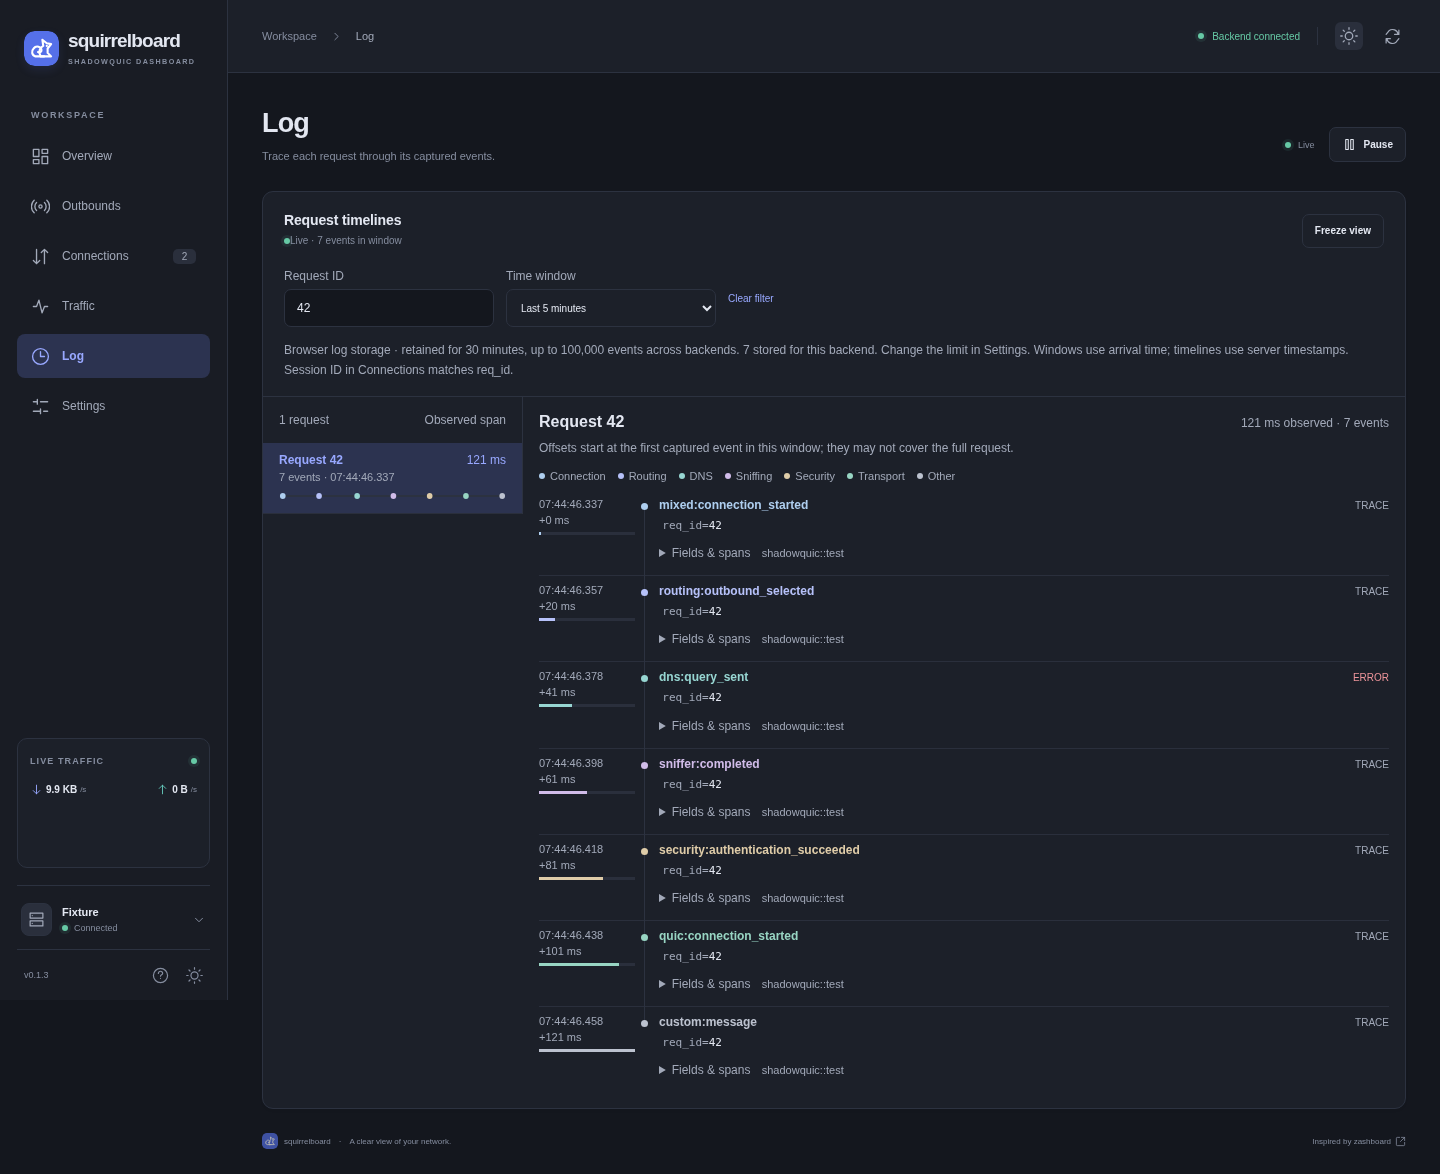
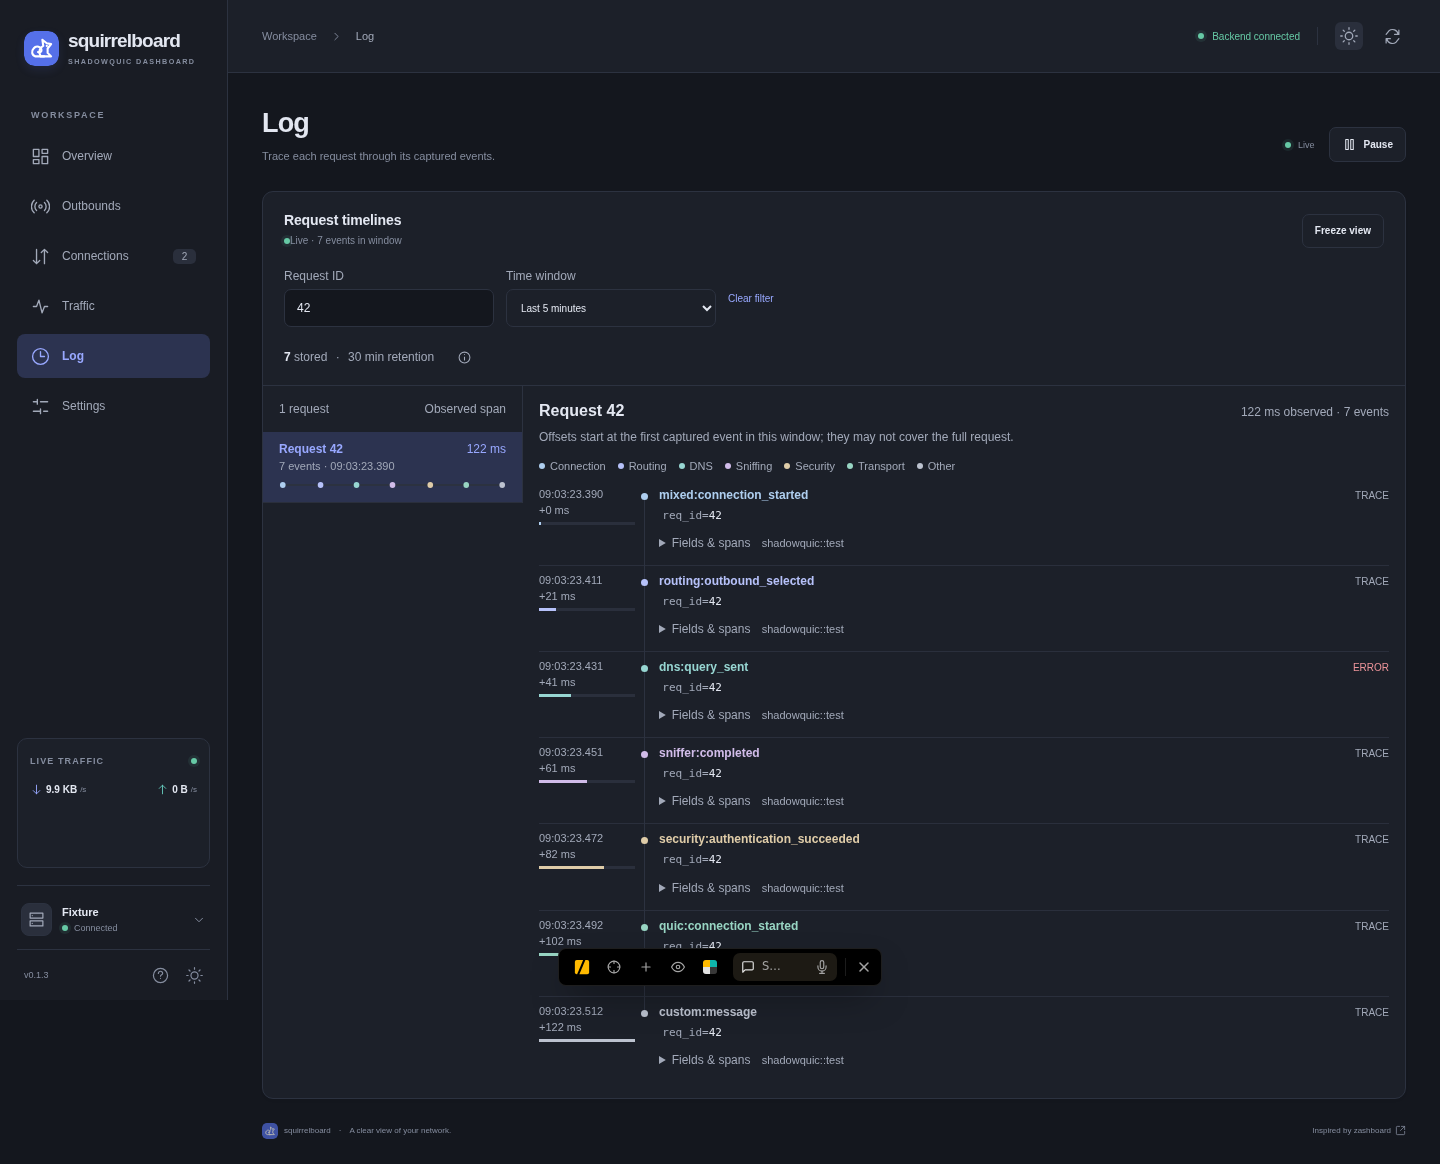
refactor: move log capture details into hover help

diff --git a/src/components/LogPanel.vue b/src/components/LogPanel.vue
@@ -14,6 +14,8 @@ const eventOffset = ref(0)
 const view = shallowRef(emptyLogView())
 const loading = ref(true)
 const queryError = ref('')
+const helpDismissed = ref(false)
+const hasCaptureIssues = computed(() => !!(props.dropped || props.gaps || props.evicted || props.invalid))
 let running = false
 let dirty = false
 let alive = true
@@ -79,11 +81,23 @@ function freeze() { frozen.value = frozen.value === null ? props.now : null }
       <button v-if="requestId" class="text-button" @click="emit('request', '')">Clear filter</button>
       <span v-if="frozen" class="log-frozen">View frozen at {{ time(end) }}. Capture and retention continue.</span>
     </div>
-    <p class="log-note">Browser log storage · retained for 30 minutes, up to {{ maxEvents.toLocaleString() }} events across backends. {{ storedCount.toLocaleString() }} stored for this backend. Change the limit in Settings. Windows use arrival time; timelines use server timestamps. Session ID in Connections matches req_id.</p>
+    <p class="log-note log-help-summary">
+      <span><strong>{{ storedCount.toLocaleString() }}</strong> stored <span class="log-help-separator">·</span> 30 min retention</span>
+      <span class="log-help-item" :class="{ dismissed: helpDismissed, 'capture-warning': hasCaptureIssues }" @mouseleave="helpDismissed = false" @focusin="helpDismissed = false" @keydown.esc.stop.prevent="helpDismissed = true">
+        <button type="button" class="log-help-trigger" aria-describedby="log-help-details" :aria-label="hasCaptureIssues ? 'Log storage and capture details' : 'Log storage and timing details'" @click="helpDismissed = false">
+          <svg v-if="hasCaptureIssues" viewBox="0 0 20 20" width="15" height="15" fill="none" stroke="currentColor" stroke-width="1.4" aria-hidden="true"><path d="m10 2 8 15H2L10 2Z" stroke-linejoin="round"/><path d="M10 7v4M10 13v1"/></svg>
+          <svg v-else viewBox="0 0 20 20" width="15" height="15" fill="none" stroke="currentColor" stroke-width="1.4" aria-hidden="true"><circle cx="10" cy="10" r="7.2"/><path d="M10 9v5M10 5.5v1"/></svg>
+          <span v-if="hasCaptureIssues">Capture incomplete</span>
+        </button>
+        <span id="log-help-details" role="tooltip" class="log-help-tip">
+          <span v-if="hasCaptureIssues" class="log-capture-counts"><strong>Capture may be incomplete</strong><span>{{ dropped }} server-dropped events</span><span>{{ gaps }} stream interruptions</span><span>{{ evicted }} events removed at the buffer limit</span><span>{{ invalid }} unreadable records</span></span>
+          <span>Retained for 30 minutes, up to {{ maxEvents.toLocaleString() }} events across backends. {{ storedCount.toLocaleString() }} stored for this backend. Change the limit in Settings. Windows use arrival time; timelines use server timestamps. Session ID in Connections matches req_id.</span>
+        </span>
+      </span>
+    </p>
     <p v-if="storageError || queryError" class="log-warning" role="status">{{ storageError || queryError }}</p>
     <p v-if="state.includes('Unavailable')" class="log-warning" role="status">Cannot open the log stream. Check the API secret, backend support for /api/v1/logs, and WebSocket proxy settings. Retained events remain available.</p>
     <p v-if="state === 'Paused'" class="log-warning">Capture is paused while dashboard updates are paused or this tab is hidden. Events during this time cannot be replayed.</p>
-    <p v-if="dropped || gaps || evicted || invalid" class="log-warning">Capture may be incomplete: {{ dropped }} server-dropped events, {{ gaps }} stream interruptions, {{ evicted }} events removed at the buffer limit, {{ invalid }} unreadable records.</p>
     <div v-if="view.totalRequests" class="log-workspace">
       <aside class="log-requests" aria-label="Captured requests">
         <div class="log-list-heading">{{ view.totalRequests }} {{ view.totalRequests === 1 ? 'request' : 'requests' }} <span>Observed span</span></div>
@@ -98,7 +112,7 @@ function freeze() { frozen.value = frozen.value === null ? props.now : null }
       <div v-if="selected" class="log-timeline">
         <div class="log-timeline-heading"><h3>{{ selected.id === null ? 'Unscoped events' : `Request ${selected.id}` }}</h3><span>{{ elapsed(selected.last.at - selected.first.at) }} observed · {{ selected.count }} events</span></div>
         <p v-if="hasMetadata" class="log-destination">{{ metadata.destination || 'Unknown destination' }}<template v-if="metadata.protocol"> · {{ metadata.protocol }}</template><template v-if="metadata.inbound"> · Inbound: {{ metadata.inbound }}</template><template v-if="metadata.outbound"> · Outbound: {{ metadata.outbound }}</template></p>
-        <p class="log-note timeline-note">{{ selected.id === null ? 'These events have no req_id and cannot be assigned to a request.' : 'Offsets start at the first captured event in this window; they may not cover the full request.' }}</p>
+        <p v-if="selected.id === null" class="log-note timeline-note">These events have no req_id and cannot be assigned to a request.</p>
         <ul class="log-legend" aria-label="Event categories"><li v-for="category in categories" :key="category" :class="`category-${category}`"><i aria-hidden="true"/>{{ LOG_CATEGORIES[category] }}</li></ul>
         <ol class="log-events">
           <li v-for="event in visibleEvents" :key="event.sequence" :class="[event.level.toLowerCase(), `category-${logCategory(event.event)}`]">
@@ -118,7 +132,7 @@ function freeze() { frozen.value = frozen.value === null ? props.now : null }
 </template>
 
 <style scoped>
-.log-panel { min-width: 0; --log-connection: #3979ad; --log-sniffing: #9161ad; }
+.log-panel { min-width: 0; overflow: visible; --log-connection: #3979ad; --log-sniffing: #9161ad; }
 :global([data-theme=dark] .log-panel) { --log-connection: #8abded; --log-sniffing: #c5a0e3; }
 .category-connection { --event-color: var(--log-connection); }
 .category-routing { --event-color: var(--primary); }
@@ -137,6 +151,20 @@ function freeze() { frozen.value = frozen.value === null ? props.now : null }
 .log-filters input::placeholder { color: var(--secondary); }
 .log-filters input, .log-filters select { min-height: 38px; width: 210px; max-width: 100%; }
 .log-note { margin: 0; padding: 0 21px 16px; font-size: 12px; color: var(--secondary); line-height: 1.6; }
+
+.log-help-summary { position: relative; display: flex; flex-wrap: wrap; align-items: center; gap: 6px 14px; padding-bottom: 12px; }
+.log-help-summary strong { color: var(--text); font-weight: 600; font-variant-numeric: tabular-nums; }
+.log-help-separator { margin: 0 5px; }
+.log-help-item { position: relative; display: inline-flex; }
+.log-help-trigger { display: inline-flex; gap: 6px; align-items: center; justify-content: center; min-height: 32px; min-width: 32px; padding: 6px; border-radius: 7px; color: var(--secondary); background: transparent; font: inherit; cursor: help; }
+.log-help-trigger:hover, .log-help-trigger:focus-visible { color: var(--primary); }
+.log-help-tip { display: none; position: absolute; z-index: 40; top: calc(100% + 4px); left: 0; width: 320px; max-width: calc(100vw - 72px); padding: 12px 14px; border-radius: 7px; color: var(--text); background: var(--surface); box-shadow: 0 5px 20px #0003; font-size: 12px; font-weight: 400; line-height: 1.65; white-space: normal; }
+.capture-warning .log-help-trigger { color: var(--amber); }
+.capture-warning .log-help-trigger:hover, .capture-warning .log-help-trigger:focus-visible { color: var(--text); }
+.log-capture-counts { display: grid; gap: 2px; padding-bottom: 10px; margin-bottom: 10px; border-bottom: 1px solid var(--border); }
+.log-capture-counts strong { margin-bottom: 4px; }
+.log-help-tip::before { content: ''; position: absolute; top: -8px; left: 0; width: 100%; height: 8px; }
+.log-help-item:not(.dismissed):hover .log-help-tip, .log-help-item:not(.dismissed):focus-within .log-help-tip { display: block; }
 .log-warning { margin: 0 21px 16px; padding: 12px; background: var(--bg); color: var(--text); font-size: 12px; border: 1px solid var(--border); border-radius: 7px; }
 .log-frozen { color: var(--secondary); font-size: 12px; }
 .log-workspace { display: grid; grid-template-columns: 260px minmax(0, 1fr); border-top: 1px solid var(--border); }
@@ -185,6 +213,8 @@ function freeze() { frozen.value = frozen.value === null ? props.now : null }
   .log-workspace { grid-template-columns: minmax(0, 1fr); }
   .log-requests { max-height: 250px; overflow: auto; border-right: 0; border-bottom: 1px solid var(--border); }
   .log-heading { align-items: flex-start; }
+  .log-help-item { position: static; }
+  .log-help-tip { left: 15px; }
   .log-filters { padding-inline: 15px; }
   .log-filters label { flex: 1 1 120px; min-width: 0; }
   .log-filters input, .log-filters select { width: 100%; }

diff --git a/tests/browser/log-help.spec.ts b/tests/browser/log-help.spec.ts
@@ -1,0 +1,87 @@
+import { test, expect } from 'playwright/test'
+
+for (const width of [1440, 390]) {
+  test.describe(`log help at ${width}px`, () => {
+    test.use({ viewport: { width, height: 1000 }, hasTouch: width < 740 })
+
+    test('storage help floats without shifting content and supports focus and Escape', async ({ page }) => {
+      // Keep the user's live design session separate from browser verification.
+      await page.route(/^http:\/\/(?:localhost|127\.0\.0\.1):8400\//, route => route.abort())
+      await page.goto('/#log?demo=1')
+      const trigger = page.getByRole('button', { name: 'Log storage and timing details' })
+      const tip = page.getByRole('tooltip')
+      await expect(trigger).toBeVisible()
+      await expect(tip).toBeHidden()
+      const before = await page.locator('.log-workspace').boundingBox()
+      if (width < 740) await trigger.tap()
+      else await trigger.hover()
+      await expect(tip).toBeVisible()
+      await expect(tip).toContainText('Session ID in Connections matches req_id')
+      const bounds = (await tip.boundingBox())!
+      expect(bounds.x).toBeGreaterThanOrEqual(0)
+      expect(bounds.x + bounds.width).toBeLessThanOrEqual(width)
+      expect((await page.locator('.log-workspace').boundingBox())!.y).toBe(before!.y)
+      if (width > 740) {
+        await tip.hover()
+        await expect(tip).toBeVisible()
+      }
+      await page.screenshot({ path: `.impeccable/review/log-help-${width}-light.png`, animations: 'disabled' })
+      await page.evaluate(() => document.documentElement.dataset.theme = 'dark')
+      await page.screenshot({ path: `.impeccable/review/log-help-${width}-dark.png`, animations: 'disabled' })
+      // Escape also dismisses hover-triggered content without moving the pointer.
+      await trigger.focus()
+      await page.keyboard.press('Escape')
+      await expect(tip).toBeHidden()
+      await expect(trigger).toBeFocused()
+      await page.keyboard.press('Tab')
+      await trigger.focus()
+      await expect(tip).toBeVisible()
+      await page.mouse.move(0, 0)
+      await page.keyboard.press('Tab')
+      await expect(tip).toBeHidden()
+    })
+
+    test('capture counts share the storage summary and tooltip', async ({ page }) => {
+      await page.addInitScript(() => sessionStorage.setItem('squirrelboard.secret', 'fixture-secret'))
+      await page.routeWebSocket('**/api/v1/logs*', ws => {
+        ws.send(JSON.stringify({ timestamp: new Date().toISOString(), level: 'INFO', target: 'test', event: 'proxy:accepted', fields: { req_id: 42 }, spans: [] }))
+        ws.send('{"event":"api:logs_lagged","dropped":4}')
+        ws.send('invalid record')
+      })
+      await page.goto('/#log')
+      const summary = page.locator('.log-help-summary')
+      await expect(summary).toHaveCount(1)
+      await expect(summary).toContainText('stored')
+      await expect(summary).toContainText('30 min retention')
+      const trigger = summary.getByRole('button', { name: 'Log storage and capture details' })
+      await expect(trigger).toHaveText('Capture incomplete')
+      const tip = page.getByRole('tooltip')
+      await expect(tip).toBeHidden()
+      if (width < 740) await trigger.tap()
+      else await trigger.hover()
+      await expect(tip).toBeVisible()
+      await expect(tip).toContainText('4 server-dropped events')
+      await expect(tip).toContainText('0 stream interruptions')
+      await expect(tip).toContainText('0 events removed at the buffer limit')
+      await expect(tip).toContainText('1 unreadable records')
+      await expect(tip).toContainText('Change the limit in Settings')
+      // The whole tip must remain painted even beyond a short panel's bottom edge.
+      expect(await tip.evaluate(el => {
+        const box = el.getBoundingClientRect()
+        const target = document.elementFromPoint(box.x + box.width / 2, box.bottom - 8)
+        return !!target && el.contains(target)
+      })).toBe(true)
+      for (const theme of ['light', 'dark']) {
+        await page.evaluate(theme => document.documentElement.dataset.theme = theme, theme)
+        await page.screenshot({ path: `.impeccable/review/log-capture-help-${width}-${theme}.png`, animations: 'disabled' })
+      }
+      if (width < 740) await page.setViewportSize({ width: 320, height: 844 })
+      const bounds = (await tip.boundingBox())!
+      expect(bounds.x).toBeGreaterThanOrEqual(0)
+      expect(bounds.x + bounds.width).toBeLessThanOrEqual(width < 740 ? 320 : width)
+      await trigger.focus()
+      await page.keyboard.press('Escape')
+      await expect(tip).toBeHidden()
+    })
+  })
+}

diff --git a/tests/browser/logs.spec.ts b/tests/browser/logs.spec.ts
@@ -39,6 +39,7 @@ test('lag, unscoped logs, frozen arrivals and mobile layouts', async ({ page }) 
   send(record(7, 'router:matched'))
   send('{"event":"api:logs_lagged","dropped":4}')
   await expect(page.locator('.log-events li')).toHaveCount(1)
+  await page.getByRole('button', { name: 'Log storage and capture details' }).focus()
   await expect(page.getByText(/4 server-dropped/)).toBeVisible()
   await page.getByRole('button', { name: 'Freeze view', exact: true }).click()
   send(record(7, 'stream:closed'))
@@ -83,6 +84,7 @@ test('stream failures keep captured events visible and retry without blocking th
   await expect(page.getByText('Backend connected', { exact: true })).toBeVisible()
   await expect(page.locator('.log-heading')).toContainText('Live')
   await expect(page.locator('.log-events li')).toHaveCount(2)
+  await page.getByRole('button', { name: 'Log storage and capture details' }).focus()
   await expect(page.getByText(/1 stream interruptions/)).toBeVisible()
 })
 

diff --git a/.impeccable/surfaces/log.md b/.impeccable/surfaces/log.md
@@ -35,3 +35,9 @@ Retain captured events by backend address in IndexedDB for 30 minutes, with a br
 ## Stable reading position
 
 The request list scrolls independently within 70vh on desktop and 250px on mobile, with scroll anchoring disabled only for that list. Preserve normal timeline anchoring and keyboard focus. Live request reordering must not move the event being read. Explicit selections remain explicit when their events leave the time window; show an unavailable-selection message instead of opening the newest request automatically.
+
+## Log storage help
+
+Show a compact stored-event count and 30-minute retention summary. Keep storage limits, timing semantics, and request ID matching in the adjacent info tooltip. Reveal it on hover, keyboard focus, or touch focus; allow Escape dismissal and pointer travel into the tip. Keep the 320px tooltip inside the mobile viewport.
+
+Capture completeness shares this summary: show an amber warning icon and “Capture incomplete” beside retention whenever drop, interruption, eviction, or unreadable-record counts are nonzero. Put all four counts in the same hover/focus tooltip above storage and timing help. Keep connection and storage failures as separate actionable messages.
